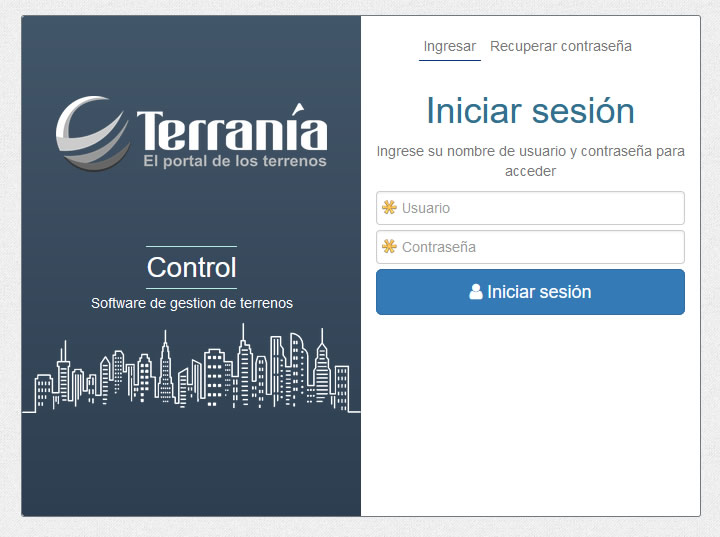
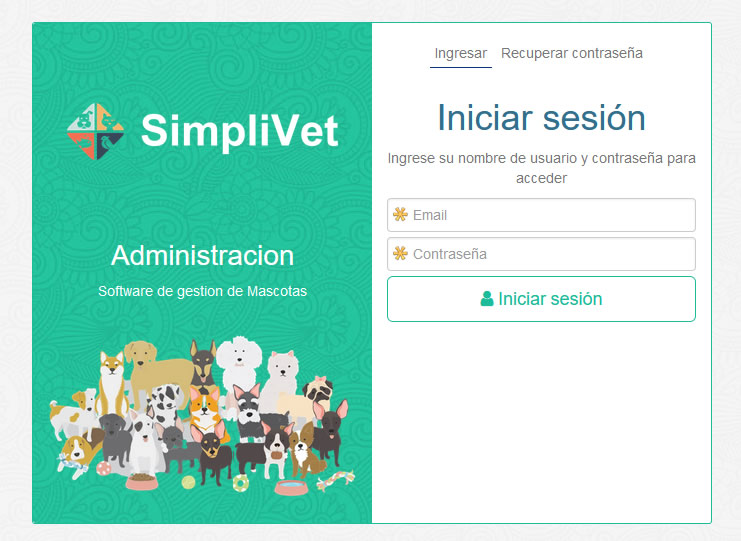
Subida inicial
Subida inicial

diff --git a/Plataforma SimpliVet/README.md b/Plataforma SimpliVet/README.md
@@ -1,70 +1,65 @@
-# Plataforma Terrania
-Plataforma enfocada en la gestión de venta de los terrenos para cada línea de negocios, gestionando de principio a fin cada negociación con las empresas interesadas de forma separada para cada terreno.
+# Plataforma SimpliVet
+Plataforma dividida en tres sub-plataformas.
 
-La plataforma posee un acceso para cada rol (Administrador-Corredores-Cliente-Dueño terreno) que limita los datos y la acciones que pueden ejecutar al interior de la plataforma.
+### Descripción
+#### Plataforma Administrativa
+Esta plataforma esta encargada de administrar a los clientes, establecer sus planes de contrato y hacer las facturaciones mensuales.
 
-#### Login de la plataforma
-<img src='https://raw.githubusercontent.com/tenshi98/Trabajo_Imagenes/main/Plataforma%20Terrania/src/img_1.jpg' />
+#### Plataforma Clientes
+Plataforma de gestión para centros veterinarios, entre sus funciones se encuentran:
+•	Administración Centros.
+•	Administración Trabajadores.
+•	Administración productos y servicios.
+•	Administración tutores y mascotas.
+•	Gestión Bodegas (compra, ventas, uso productos en servicios, etc.).
+•	Atención mascotas.
+•	Hospitalización mascotas.
+•	Peluquería mascotas.
+•	Hotel mascotas.
+•	Reservas de Hora para atención.
+•	Reservas de Hora para cirugías.
+•	Atención Caja.
+•	Envío de correos recordatorios de los servicios (vacunas anuales, retiro mascotas hotel, etc.).
+
+#### Plataforma Tutores
+Plataforma para los tutores, donde pueden ver sus mascotas, sus historiales médicos, sus calendarios de vacunas, hacer reservas de horas de atención o cirugía, confirmar la asistencia a dichas reservas, etc.
+
+### Imágenes
+#### Login de la plataforma Clientes
+<img src='https://raw.githubusercontent.com/tenshi98/Trabajo_Imagenes/main/Plataforma%20SimpliVet/src/img_1.jpg' />
+
+#### Selección trabajador y centro donde va a trabajar
+<img src='https://raw.githubusercontent.com/tenshi98/Trabajo_Imagenes/main/Plataforma%20SimpliVet/src/img_2.jpg' />
 
 #### Pantalla principal
-Se muestran las líneas de negocio, los corredores inscritos en la plataforma, Las INFO1 aceptadas por los clientes (empresas de construcción), los hitos del mes (eventos dentro de las unidades de negocio que están a punto de vencer o que se tienen que ejecutar) y las empresas desactualizadas (para mantener el listado de los contactos activos en cada empresa).
-<img src='https://raw.githubusercontent.com/tenshi98/Trabajo_Imagenes/main/Plataforma%20Terrania/src/img_2.jpg' />
+<img src='https://raw.githubusercontent.com/tenshi98/Trabajo_Imagenes/main/Plataforma%20SimpliVet/src/img_3.jpg' />
 
-#### Pantalla pre-venta de la línea de negocios
-Básicamente se muestran los terrenos y sus unidades de negocios para cada empresa (básicamente es la negociación de venta entre el terreno y la empresa) mostrando con colores el estado de la negociación.
-<img src='https://raw.githubusercontent.com/tenshi98/Trabajo_Imagenes/main/Plataforma%20Terrania/src/img_3.jpg' />
+#### Menú de la plataforma
+<img src='https://raw.githubusercontent.com/tenshi98/Trabajo_Imagenes/main/Plataforma%20SimpliVet/src/img_4.jpg' />
 
-#### Menú del terreno
-Muestra las opciones para trabajar con el terreno.
-<img src='https://raw.githubusercontent.com/tenshi98/Trabajo_Imagenes/main/Plataforma%20Terrania/src/img_4.jpg' />
+#### Atención Mascotas
+Se muestra el filtro de búsqueda, desde donde se puede buscar con los datos del tutor o los datos de la mascota.
+<img src='https://raw.githubusercontent.com/tenshi98/Trabajo_Imagenes/main/Plataforma%20SimpliVet/src/img_5.jpg' />
 
-#### Agregar Match
-Muestra las empresas que son compatibles con el terreno (se verifica si la empresa constructora trabaja en la región y comuna del terreno, trabaja en la línea de negocios, y maneja el rango de medidas y valores que tiene el terreno), las cuales se marcan con un check y se guarda la información, de esta forma se crea la Unidad de Negocios.
-<img src='https://raw.githubusercontent.com/tenshi98/Trabajo_Imagenes/main/Plataforma%20Terrania/src/img_5.jpg' />
+#### Pantalla resúmen del tutor
+Muestra los datos del tutor, asi como también todas las mascotas a nombre de éste.
+<img src='https://raw.githubusercontent.com/tenshi98/Trabajo_Imagenes/main/Plataforma%20SimpliVet/src/img_6.jpg' />
 
-#### Menú Unidad de Negocios
-Es el menú de opciones para la Unidad de Negocios seleccionada.
-<img src='https://raw.githubusercontent.com/tenshi98/Trabajo_Imagenes/main/Plataforma%20Terrania/src/img_6.jpg' />
+#### Datos de la mascota
+Muestra todos los datos de la mascota, agrupados por el tipo de servicio.
+<img src='https://raw.githubusercontent.com/tenshi98/Trabajo_Imagenes/main/Plataforma%20SimpliVet/src/img_7.jpg' />
 
-#### Resumen Unidad de Negocios
-Es la pantalla con la información del terreno, los documentos cargados para la Unidad de Negocios y un histórico de hitos realizados.
-<img src='https://raw.githubusercontent.com/tenshi98/Trabajo_Imagenes/main/Plataforma%20Terrania/src/img_7.jpg' />
+#### Caja
+Se muestran todas las facturaciones pendientes de cobro generadas desde la atención de mascotas, al igual que caja también puede generar facturaciones propias.
+<img src='https://raw.githubusercontent.com/tenshi98/Trabajo_Imagenes/main/Plataforma%20SimpliVet/src/img_8.jpg' />
 
-#### Listado de Comisiones
-Muestra el listado de personas que intervienen en la repartición de comisiones.
-<img src='https://raw.githubusercontent.com/tenshi98/Trabajo_Imagenes/main/Plataforma%20Terrania/src/img_8.jpg' />
+#### Detalle de la facturación
+Muestra el detalle de la facturación, en este caso una atención de la mascota.
+<img src='https://raw.githubusercontent.com/tenshi98/Trabajo_Imagenes/main/Plataforma%20SimpliVet/src/img_9.jpg' />
 
-#### Solicitar Modificación de datos
-En el caso de que algún dato este incorrecto, el usuario que se da cuenta del error puede solicitar la modificación de datos al administrador o a quien este asignado como Director de negocios.
-<img src='https://raw.githubusercontent.com/tenshi98/Trabajo_Imagenes/main/Plataforma%20Terrania/src/img_9.jpg' />
-
-#### Asignar director de Negocios
-Permite asignar a los directores de negocios, que son los responsables de administrar todas las Unidades de Negocios del terreno, además genera un contrato de forma automática, el cual debe ser aceptado por obligación.
-<img src='https://raw.githubusercontent.com/tenshi98/Trabajo_Imagenes/main/Plataforma%20Terrania/src/img_10.jpg' />
-
-#### Envío INFO1
-Es el envío de información básica del terreno a los contactos de las empresas que pueden estar interesadas en la compra de éstos.
-<img src='https://raw.githubusercontent.com/tenshi98/Trabajo_Imagenes/main/Plataforma%20Terrania/src/img_11.jpg' />
-
-#### Listado de documentos
-Es un administrador de documentos para cada Unidad de Negocios, los cuales están ordenados por prioridades, importancias y por etapa de negociación.
-<img src='https://raw.githubusercontent.com/tenshi98/Trabajo_Imagenes/main/Plataforma%20Terrania/src/img_12.jpg' />
-
-#### Menú Administración
-Muestra las opciones de administración, este menú es mostrado solo a los usuarios que se le hayan otorgado los permisos.
-<img src='https://raw.githubusercontent.com/tenshi98/Trabajo_Imagenes/main/Plataforma%20Terrania/src/img_13.jpg' />
-
-#### Menú Informes
-Muestra las opciones de informes, este menú es mostrado solo a los usuarios que se le hayan otorgado los permisos.
-<img src='https://raw.githubusercontent.com/tenshi98/Trabajo_Imagenes/main/Plataforma%20Terrania/src/img_14.jpg' />
-
-#### Menú Mantención
-Muestra las opciones de mantención, este menú es mostrado solo a los usuarios que se le hayan otorgado los permisos.
-<img src='https://raw.githubusercontent.com/tenshi98/Trabajo_Imagenes/main/Plataforma%20Terrania/src/img_15.jpg' />
-
-#### Pre-venta Vista invertida
-Permite ver todas las unidades de negocios asignadas a cada empresa de construcción.
-<img src='https://raw.githubusercontent.com/tenshi98/Trabajo_Imagenes/main/Plataforma%20Terrania/src/img_16.jpg' />
+#### Informe flujo caja
+Muestra en detalle todas las facturaciones valorizadas y con su estado de pago, segmentadas por el centro donde se hizo y el servicio que lo origino.
+<img src='https://raw.githubusercontent.com/tenshi98/Trabajo_Imagenes/main/Plataforma%20SimpliVet/src/img_10.jpg' />
 
 ---
 

diff --git a/APP AppSeguridad/README.md b/APP AppSeguridad/README.md
@@ -1,0 +1,32 @@
+# APP AppSeguridad
+Aplicación Android de seguridad ofrecida para el público en general que se encargaba de registrar eventos en un mapa, con niveles de peligro del evento y un registro de éste, permitía indicar mediante vibraciones del celular si uno estaba entrando a un área conflictiva.
+
+Desgraciadamente no dispongo de ninguna captura de pantalla ni tampoco se encuentra en uso actualmente.
+
+---
+
+[Volver al Repositorio](https://github.com/tenshi98/Trabajo_Imagenes/)
+
+---
+
+## Licencia 📄
+Este proyecto está bajo la Licencia GPL-3.0 license - ve el archivo [LICENSE](LICENSE) para detalles
+
+## Contacto 📖
+Puedes contactarte conmigo a través de cualquier de los siguientes canales:
+- [Github](https://github.com/tenshi98)
+- [Linkedin](https://www.linkedin.com/in/victor-reyes-galvez/)
+- [Portafolio](https://tenshi98.github.io/portafolio/)
+- [Mi Web](https://web.digitalcreations.cl/)
+
+## Contribuciones 🎁
+Si encontraste cualquier valor en este proyecto o quieres contribuir, aquí está lo que puedes hacer:
+
+- Comparte este proyecto con otros.
+- Invítame un café ☕.
+- Inicia un nuevo problema o contribuye con un PR.
+- Muestra tu agradecimiento diciendo gracias en un nuevo problema.
+
+---
+
+⌨ por [Víctor Reyes](https://github.com/tenshi98) 😊
